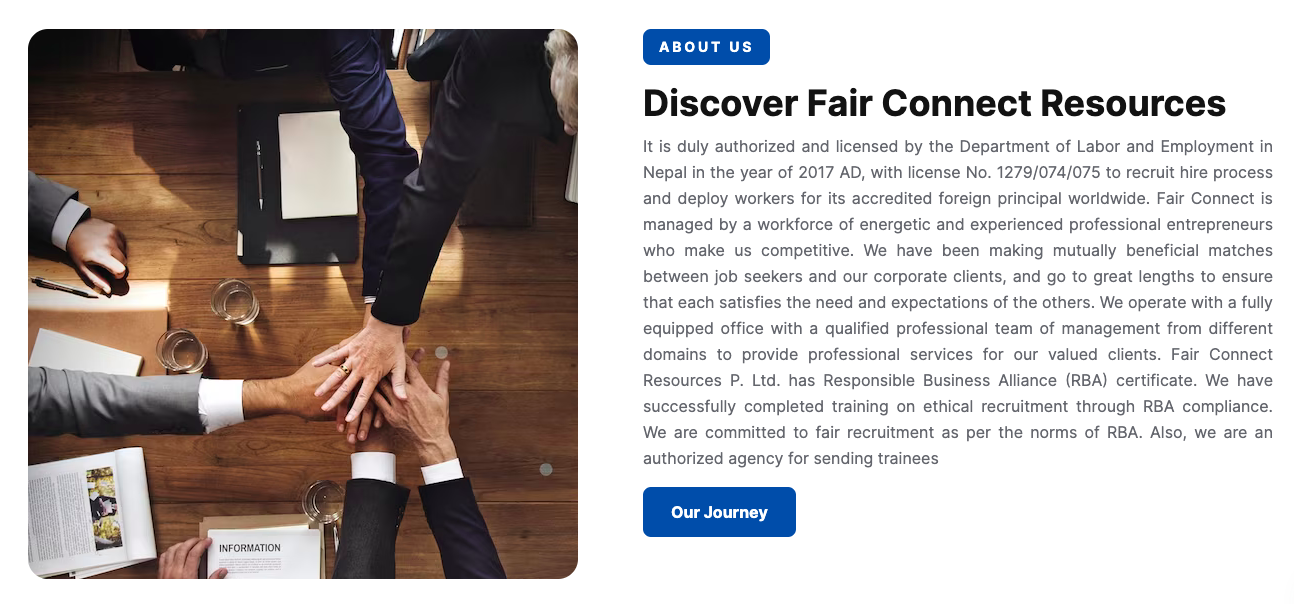
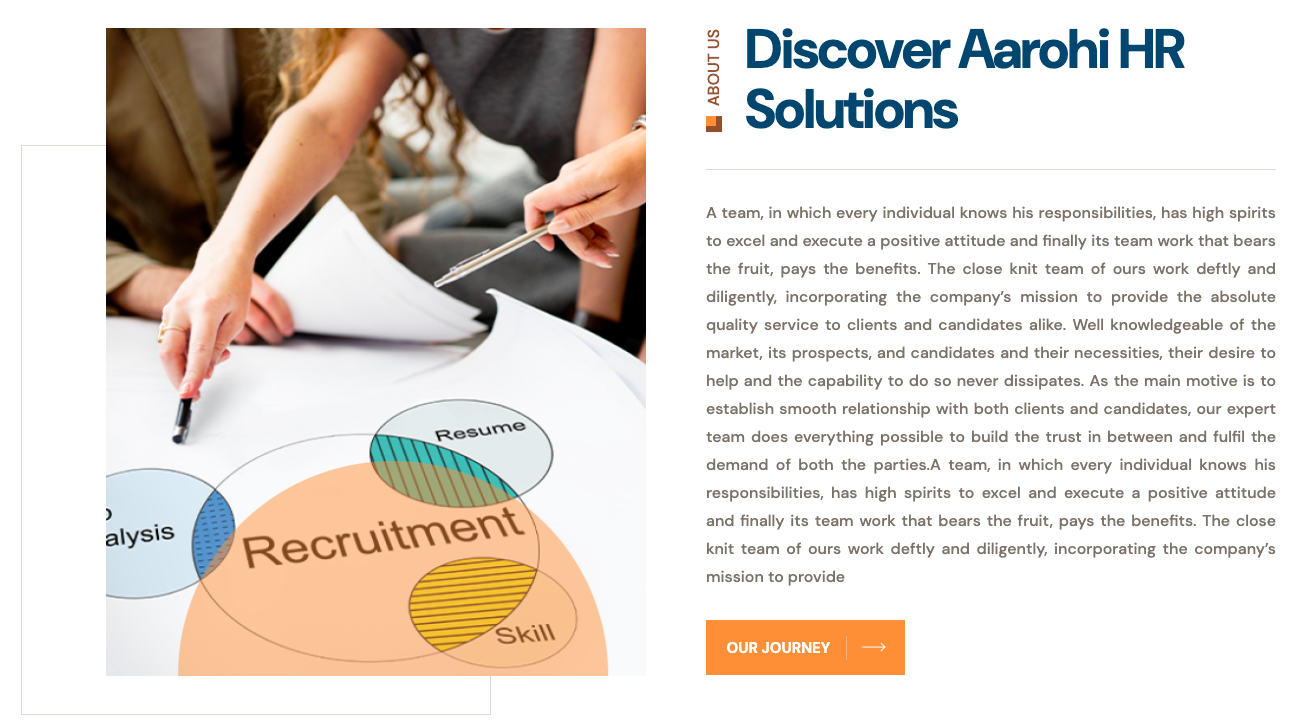
dynamic page updates

diff --git a/public/assets/frontend/css/floens.css b/public/assets/frontend/css/floens.css
@@ -15165,7 +15165,7 @@ li:hover .sidebar__comments__icon::after {
 --------------------------------------------------------------*/
 .evaluation-schedule {
   padding-top: 116px;
-  padding-bottom: 376px;
+  padding-bottom: 120px;
   position: relative;
   background-repeat: no-repeat;
   background-position: center;
@@ -15189,7 +15189,7 @@ li:hover .sidebar__comments__icon::after {
   left: 0;
   right: 0;
   bottom: 0;
-  background-color: RGBA(var(--floens-base2-rgb, 138, 81, 51), 0.9);
+  background-color: #2a7dc2bf;
 }
 .evaluation-schedule .container-fluid {
   position: relative;
@@ -15238,7 +15238,7 @@ li:hover .sidebar__comments__icon::after {
   }
 }
 .evaluation-schedule__title {
-  font-size: 70px;
+  font-size: 45px;
   color: var(--floens-white, #ffffff);
   line-height: normal;
   letter-spacing: 0.7px;

diff --git a/resources/views/frontend/page/includes/basic_section.blade.php b/resources/views/frontend/page/includes/basic_section.blade.php
@@ -1,27 +1,65 @@
-<div class="about-home-five mt-100 mb-80">
+{{--<div class="about-home-five mt-100 mb-80">--}}
+{{--    <div class="container">--}}
+{{--        <div class="row ">--}}
+{{--            <div class="col-12 col-lg-5 col-md-8 col-sm-8">--}}
+{{--                <div class="bg-img w-100 bora-20">--}}
+{{--                    <img class="hover-scale display-block bora-20 lazy" data-src="{{ asset(imagePath($element->first()->image)) }}" alt="">--}}
+{{--                </div>--}}
+{{--            </div>--}}
+{{--            <div class="col-12 col-lg-6 ml-65">--}}
+{{--                <div class="text-about">--}}
+{{--                    @if ($element->first()->subtitle)--}}
+{{--                        <div class="text-sub-heading2 text-white pt-8 pb-8 pl-16 pr-16 bg-blue bora-8 display-inline-block">{{ $element->first()->subtitle ?? '' }}</div>--}}
+{{--                    @endif--}}
+{{--                    <div class="heading4 mt-16">{{ $element->first()->title ?? '' }}</div>--}}
+{{--                    <div class="body3 text-secondary mt-2 text-align-justify">  {!! $element->first()->description ?? '' !!}</div>--}}
+{{--                    @if($element->first()->button_link)--}}
+{{--                        <div class="button-block button-block-2 mt-3 flex-item-center gap-24">--}}
+{{--                            <a class="button-share display-inline-block hover-button-black border-none bg-blue text-white text-button pl-28 pr-28 pt-12 pb-12 bora-8" href="{{$element->first()->button_link}}">--}}
+{{--                                <span> {{ $element->first()->button ?? 'Reach Out' }}</span></a>--}}
+{{--                        </div>--}}
+{{--                    @endif--}}
+{{--                </div>--}}
+
+{{--            </div>--}}
+{{--        </div>--}}
+{{--    </div>--}}
+{{--</div>--}}
+
+
+<section class="about-three section-space" id="about">
     <div class="container">
-        <div class="row ">
-            <div class="col-12 col-lg-5 col-md-8 col-sm-8">
-                <div class="bg-img w-100 bora-20">
-                    <img class="hover-scale display-block bora-20 lazy" data-src="{{ asset(imagePath($element->first()->image)) }}" alt="">
+        <div class="row gutter-y-60">
+            <div class="col-lg-6 wow fadeInLeft animated" data-wow-duration="1500ms">
+                <div class="about-three__image">
+                    <div class="about-three__image__inner">
+                        <img data-src="{{ asset(imagePath($element->first()->image)) }}" alt="" class="about-three__image__one lazy">
+                        <div class="about-three__image__shape"></div>
+                    </div>
                 </div>
             </div>
-            <div class="col-12 col-lg-6 ml-65">
-                <div class="text-about">
-                    @if ($element->first()->subtitle)
-                        <div class="text-sub-heading2 text-white pt-8 pb-8 pl-16 pr-16 bg-blue bora-8 display-inline-block">{{ $element->first()->subtitle ?? '' }}</div>
-                    @endif
-                    <div class="heading4 mt-16">{{ $element->first()->title ?? '' }}</div>
-                    <div class="body3 text-secondary mt-2 text-align-justify">  {!! $element->first()->description ?? '' !!}</div>
+            <div class="col-lg-6">
+                <div class="about-three__content">
+                    <div class="sec-title @@extraClassName sec-title--border">
+                        @if ($element->first()->subtitle)
+                            <h6 class="sec-title__tagline">{{ $element->first()->subtitle ?? '' }}</h6>
+                        @endif
+                        <h3 class="sec-title__title">{{ $element->first()->title ?? '' }}</h3>
+                    </div>
+                    <div class="about-three__text wow fadeInUp animated text-align-justify" data-wow-duration="1500ms">
+                        {!! $element->first()->description ?? '' !!}
+                    </div>
                     @if($element->first()->button_link)
-                        <div class="button-block button-block-2 mt-3 flex-item-center gap-24">
-                            <a class="button-share display-inline-block hover-button-black border-none bg-blue text-white text-button pl-28 pr-28 pt-12 pb-12 bora-8" href="{{$element->first()->button_link}}">
-                                <span> {{ $element->first()->button ?? 'Reach Out' }}</span></a>
+                        <div class="about-three__button wow fadeInUp animated" data-wow-duration="1500ms">
+                            <a href="{{$element->first()->button_link}}" class="floens-btn about-three__btn">
+                                <span>{{ $element->first()->button ?? 'Reach Out' }}</span>
+                                <i class="icon-right-arrow"></i>
+                            </a>
                         </div>
                     @endif
                 </div>
-
             </div>
         </div>
     </div>
-</div>
+
+</section>

diff --git a/resources/views/frontend/page/includes/call_to_action.blade.php b/resources/views/frontend/page/includes/call_to_action.blade.php
@@ -1,19 +1,36 @@
-<div class="more-question-block mt-60 mb-60">
-    <div class="container">
-        <div class="row">
-            <div class="col-12 col-lg-12">
-                <div class="content bg-gradient-blue bora-16 flex-columns-center gap-16 pt-32 pb-32 pl-28 pr-28">
-                    <div class="text text-center">
-                        <div class="heading6 text-white">{{ $element->first()->subtitle ?? '' }}</div>
-                        <div class="body3 text-white mt-8">{{ $element->first()->title ?? '' }}</div>
-                    </div>
-                        @if($element->first()->button_link)
-                            <a class="button-share hover-button-blue bg-white text-button pl-36 pr-36 pt-12 pb-12 bora-48" href="{{ $element->first()->button_link }}">
-                             {{ $element->first()->button ?? 'Learn More' }}
-                            </a>
-                        @endif
-                </div>
-            </div>
+{{--<div class="more-question-block mt-60 mb-60">--}}
+{{--    <div class="container">--}}
+{{--        <div class="row">--}}
+{{--            <div class="col-12 col-lg-12">--}}
+{{--                <div class="content bg-gradient-blue bora-16 flex-columns-center gap-16 pt-32 pb-32 pl-28 pr-28">--}}
+{{--                    <div class="text text-center">--}}
+{{--                        <div class="heading6 text-white">{{ $element->first()->subtitle ?? '' }}</div>--}}
+{{--                        <div class="body3 text-white mt-8">{{ $element->first()->title ?? '' }}</div>--}}
+{{--                    </div>--}}
+{{--                        @if($element->first()->button_link)--}}
+{{--                            <a class="button-share hover-button-blue bg-white text-button pl-36 pr-36 pt-12 pb-12 bora-48" href="{{ $element->first()->button_link }}">--}}
+{{--                             {{ $element->first()->button ?? 'Learn More' }}--}}
+{{--                            </a>--}}
+{{--                        @endif--}}
+{{--                </div>--}}
+{{--            </div>--}}
+{{--        </div>--}}
+{{--    </div>--}}
+{{--</div>--}}
+
+<section class="evaluation-schedule floens-jarallax" data-jarallax data-speed="0.3"
+         style="background-image: url({{ asset('assets/frontend/images/backgrounds/evaluation-schedule-bg-1.jpg') }});">
+    <div class="container-fluid">
+        <div class="evaluation-schedule__content">
+            <h5 class="evaluation-schedule__tagline">{{ $element->first()->subtitle ?? '' }}</h5>
+            <h2 class="evaluation-schedule__title">{{ $element->first()->title ?? '' }}</h2>
+            @if($element->first()->button_link)
+                <a href="{{ $element->first()->button_link }}" class="evaluation-schedule__btn floens-btn">
+                    <span>{{ $element->first()->button ?? 'Learn More' }}</span>
+                    <i class="icon-right-arrow"></i>
+                </a>
+            @endif
         </div>
     </div>
-</div>
+</section>
+

diff --git a/app/Http/Controllers/Backend/Page/PageSectionElementController.php b/app/Http/Controllers/Backend/Page/PageSectionElementController.php
@@ -33,7 +33,7 @@ class PageSectionElementController extends BackendBaseController
     {
         $this->model           = new PageSectionElement();
         $this->image_path      = public_path(DIRECTORY_SEPARATOR.'storage'.DIRECTORY_SEPARATOR.'images'.DIRECTORY_SEPARATOR);
-        $this->file_path       = public_path(DIRECTORY_SEPARATOR.'storage'.DIRECTORY_SEPARATOR.'files'.DIRECTORY_SEPARATOR);
+        $this->file_path        = public_path(DIRECTORY_SEPARATOR.'storage'.DIRECTORY_SEPARATOR.'files'.DIRECTORY_SEPARATOR);
     }
 
     public function show($id)
@@ -97,7 +97,7 @@ class PageSectionElementController extends BackendBaseController
         DB::beginTransaction();
         try {
             if($request->hasFile('image_input')){
-                $image_name = $this->updateImage($request->file('image_input'),$data['row']->image,'550','550');
+                $image_name = $this->updateImage($request->file('image_input'),$data['row']->image,'550','660');
                 $request->request->add(['image'=>$image_name]);
             }
             $request->request->add(['status' => true ]);

diff --git a/app/Services/PageSectionElementsService.php b/app/Services/PageSectionElementsService.php
@@ -118,7 +118,7 @@ class PageSectionElementsService {
         }
         else{
             if ($request->hasFile('image_input')) {
-                $image_name = $this->uploadImage($request->file('image_input'), '550','450');
+                $image_name = $this->uploadImage($request->file('image_input'), '550','660');
                 $request->request->add(['image' => $image_name]);
             }
             $this->model->create($request->all());
